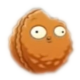
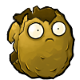
Added conehead, screenzombie, updated night background and few unit, fix zombie spawn logic

diff --git a/webapp/templates/units.html b/webapp/templates/units.html
@@ -27,7 +27,7 @@
                 </tr>
                 <tr>
                     <td>Wallnut</td>
-                    <td><img src="{{ url_for('static', filename='images/wall_nut.png') }}" ></td>
+                    <td><img src="{{ url_for('static', filename='images/wallnut.png') }}" ></td>
                     <td>Blocks zombies.</td>
                 </tr>
                 <tr>

diff --git a/controllers/game.py b/controllers/game.py
@@ -1,5 +1,5 @@
 from controllers.base import PygameController
-from models import Map, Sunflower, PeaShooter, Norzombie, SnowPea, Wallnut, Buckethead, LycheeBomb, Newspaper, Juggernaut
+from models import Map, Sunflower, PeaShooter, Norzombie, SnowPea, Wallnut, Buckethead, LycheeBomb, Newspaper, Juggernaut, Conehead, Screenzombie, conehead, newspaper, screenzombie
 from views import MainView
 import webbrowser, pygame, uuid, random, csv
 from pygame import mixer
@@ -52,15 +52,15 @@ class GameController(PygameController):
         self.zombie_list = []
         self.count_zombie = 0
         self.count_jug = 0
-        self.produce_zombie = 500
+        self.produce_zombie = 300
         self.produce_jug = 4
         self.GAMEOVER  = False
         if self.difficulty == 0:
             self.money = 400
-            self.produce_zombie = 600
+            self.produce_zombie = 200
         elif self.difficulty == 2:
             self.money = 200
-            self.produce_zombie = 400
+            self.produce_zombie = 100
 
     def init_plant_points(self):
         """Create coordination"""
@@ -81,30 +81,24 @@ class GameController(PygameController):
             self.grid_list.append(column_grid_list)
 
     def init_juggernut(self):
-        juggernaut = Juggernaut(1500, 240, self, self.MainView)
+        i = random.randint(1,6)
+        juggernaut = Juggernaut(1500, i * 80, self, self.MainView)
         self.zombie_list.append(juggernaut)
-
+        
     def init_zombies(self):
         """Spawn zombies"""
-        time_count = 0
         for i in range(1, 7):
-            normaldis = random.randint(1,3) * 200
-            normalzombie = Norzombie(1000+ normaldis, i * 80, self, self.MainView)
-            bucketdis = random.randint(4,6) * 200
-            buckethead = Buckethead(1000 + bucketdis, i * 80, self, self.MainView)
-            newsdis = random.randint(3,6) * 100
-            newspaper = Newspaper(1000 + newsdis, i * 80, self, self.MainView)
-            news = time_count // 5
-            buck = time_count // 10
-            if news != 0 or buck != 0 or time_count == 0:
-                self.zombie_list.append(normalzombie)
-                time_count += 1
-            if news == 0:
-                self.zombie_list.append(newspaper)
-                time_count += 1
-            if buck // 10 == 0:
-                self.zombie_list.append(buckethead)
-                time_count += 2
+            distance = random.randint(1,60) * 10
+            normalzombie = Norzombie(1000+ distance, i * 80, self, self.MainView)
+            buckethead = Buckethead(1000+ distance, i * 80, self, self.MainView)
+            conehead = Conehead(1000+ distance, i * 80, self, self.MainView)
+            screen = Screenzombie(1000+ distance, i * 80, self, self.MainView)
+            newspaper = Newspaper(1000+ distance, i * 80, self, self.MainView)
+            zombie_type = [normalzombie,buckethead,newspaper,conehead,screen]
+            # if len(self.zombie_list) < 40:
+            self.zombie_list.append(random.choice(zombie_type))
+
+
 
 ###------- load game unit ------------------------------
 
@@ -133,6 +127,10 @@ class GameController(PygameController):
                     zombie.losehead()
                 if isinstance(zombie, Newspaper):
                     zombie.losepaper()
+                if isinstance(zombie, Conehead):
+                    zombie.losecone()
+                if isinstance(zombie, Screenzombie):
+                    zombie.dropdoor()
                 zombie.move_zombie()
                 zombie.hit_plant()
             else:
@@ -226,7 +224,6 @@ class GameController(PygameController):
     def hard_mode(self):
         """alow players change difficulty level of the game"""
         waiting = True
-        print(1)
         while waiting:
             self.MainView.display_mode()
             for event in pygame.event.get():

diff --git a/models/conehead.py b/models/conehead.py
@@ -1,30 +1,39 @@
 import pygame
 from .zombie import Zombie
 
-class Juggernaut(Zombie):
+
+class Conehead(Zombie):
     def __init__(self,x,y, MainGame, MainView):
-        super(Juggernaut, self).__init__(MainGame, MainView)
-        self.image = pygame.image.load('./imgs/gargantuar.png')
+        super(Conehead, self).__init__(MainGame, MainView)
+        self.image = pygame.image.load('./imgs/conehead.png')
         self.rect = self.image.get_rect()
         self.rect.x = x
         self.rect.y = y
-        self.hp = 5000
-        self.damage = 2000
-        self.speed = 0.6
+        self.hp = 700
+        self.damage = 2
+        self.speed = 1
         self.live = True
         self.stop = False
+        self.cone = True
+
+    def losecone(self):
+        if self.hp <= 500:
+            self.image = pygame.image.load('./imgs/zombie.png')
+            self.cone = False
 
     def move_zombie(self):
         if self.live and not self.stop:
             self.rect.x -= self.speed
             if self.rect.x < 220:
-                self.MainGame.GAMEOVER = True
+                self.MainGame.GAMEOVER  = True
+
 
     def hit_plant(self):
         for plant in self.MainGame.plants_list:
             if pygame.sprite.collide_rect(self,plant):
                 self.stop = True
                 self.eat_plant(plant)
+
 
     def eat_plant(self,plant):
         plant.hp -= self.damage
@@ -35,6 +44,7 @@ class Juggernaut(Zombie):
             map.can_grow = True
             plant.live = False
             self.stop = False
+
 
     def display_zombie(self):
         self.MainView.window.blit(self.image, self.rect)

diff --git a/views/main.py b/views/main.py
@@ -26,9 +26,14 @@ class MainView:
         pygame.display.update()
 
     def display_stat(self):
-        self.window.blit(self.draw_text('Gold$:{}  , Level:{} , Score:{}'.format(self.MainGame.money,self.MainGame.level, self.MainGame.score), 26, (0, 0, 0)), (1000, 40))
-        self.window.blit(self.draw_text(
-            'You need {} points to reach next level'.format(self.MainGame.remnant_score), 26, (0, 0, 0)), (1000, 60))
+        if self.MainGame.difficulty == 2:
+            self.window.blit(self.draw_text('Gold$:{}  , Level:{} , Score:{}'.format(self.MainGame.money,self.MainGame.level, self.MainGame.score), 26, (255, 255, 0)), (1000, 40))
+            self.window.blit(self.draw_text(
+                'You need {} points to reach next level'.format(self.MainGame.remnant_score), 26, (255, 255, 0)), (1000, 60))
+        else:
+            self.window.blit(self.draw_text('Gold$:{}  , Level:{} , Score:{}'.format(self.MainGame.money,self.MainGame.level, self.MainGame.score), 26, (0, 0, 0)), (1000, 40))
+            self.window.blit(self.draw_text(
+                'You need {} points to reach next level'.format(self.MainGame.remnant_score), 26, (0, 0, 0)), (1000, 60))
 
     def display_plants(self):
         for plant in self.MainGame.plants_list:

diff --git a/models/screenzombie.py b/models/screenzombie.py
@@ -1,24 +1,31 @@
 import pygame
 from .zombie import Zombie
 
-class Juggernaut(Zombie):
+
+class Screenzombie(Zombie):
     def __init__(self,x,y, MainGame, MainView):
-        super(Juggernaut, self).__init__(MainGame, MainView)
-        self.image = pygame.image.load('./imgs/gargantuar.png')
+        super(Screenzombie, self).__init__(MainGame, MainView)
+        self.image = pygame.image.load('./imgs/screen.png')
         self.rect = self.image.get_rect()
         self.rect.x = x
         self.rect.y = y
-        self.hp = 5000
-        self.damage = 2000
-        self.speed = 0.6
+        self.hp = 1400
+        self.damage = 2
+        self.speed = 1
         self.live = True
         self.stop = False
+        self.door = True
+
+    def dropdoor(self):
+        if self.hp <= 700:
+            self.image = pygame.image.load('./imgs/zombie.png')
+            self.door = False
 
     def move_zombie(self):
         if self.live and not self.stop:
             self.rect.x -= self.speed
             if self.rect.x < 220:
-                self.MainGame.GAMEOVER = True
+                self.MainGame.GAMEOVER  = True
 
     def hit_plant(self):
         for plant in self.MainGame.plants_list:

diff --git a/models/flower.py b/models/flower.py
@@ -4,7 +4,10 @@ import pygame
 class Sunflower(Plant):
     def __init__(self,x,y, MainGame, MainView):
         super(Sunflower, self).__init__(MainGame, MainView)
-        self.image = pygame.image.load('./imgs/sunflower.png')
+        if self.MainGame.difficulty == 2:
+            self.image = pygame.image.load('./imgs/sunflowernight.png')
+        else:
+            self.image = pygame.image.load('./imgs/sunflowerday.png')
         self.rect = self.image.get_rect()
         self.rect.x = x
         self.rect.y = y

diff --git a/models/wallnut.py b/models/wallnut.py
@@ -5,7 +5,7 @@ class Wallnut(Plant):
     def __init__(self,x,y, MainGame, MainView):
         super(Wallnut, self).__init__(MainGame, MainView)
 
-        self.image = pygame.image.load('./imgs/wall_nut.png')
+        self.image = pygame.image.load('./imgs/wallnut.png')
         self.rect = self.image.get_rect()
         self.rect.x = x
         self.rect.y = y

diff --git a/models/__init__.py b/models/__init__.py
@@ -13,3 +13,5 @@ from .buckethead import Buckethead
 from .normalzombie import Norzombie
 from .newspaper import Newspaper
 from .juggernaut import Juggernaut
+from .conehead import Conehead
+from .screenzombie import Screenzombie

diff --git a/models/zombie.py b/models/zombie.py
@@ -11,5 +11,3 @@ class Zombie(pygame.sprite.Sprite):
         if hasattr(self, 'image') and hasattr(self, 'rect'):
             self.MainView.window.blit(self.image, self.rect)
     
-
-    
